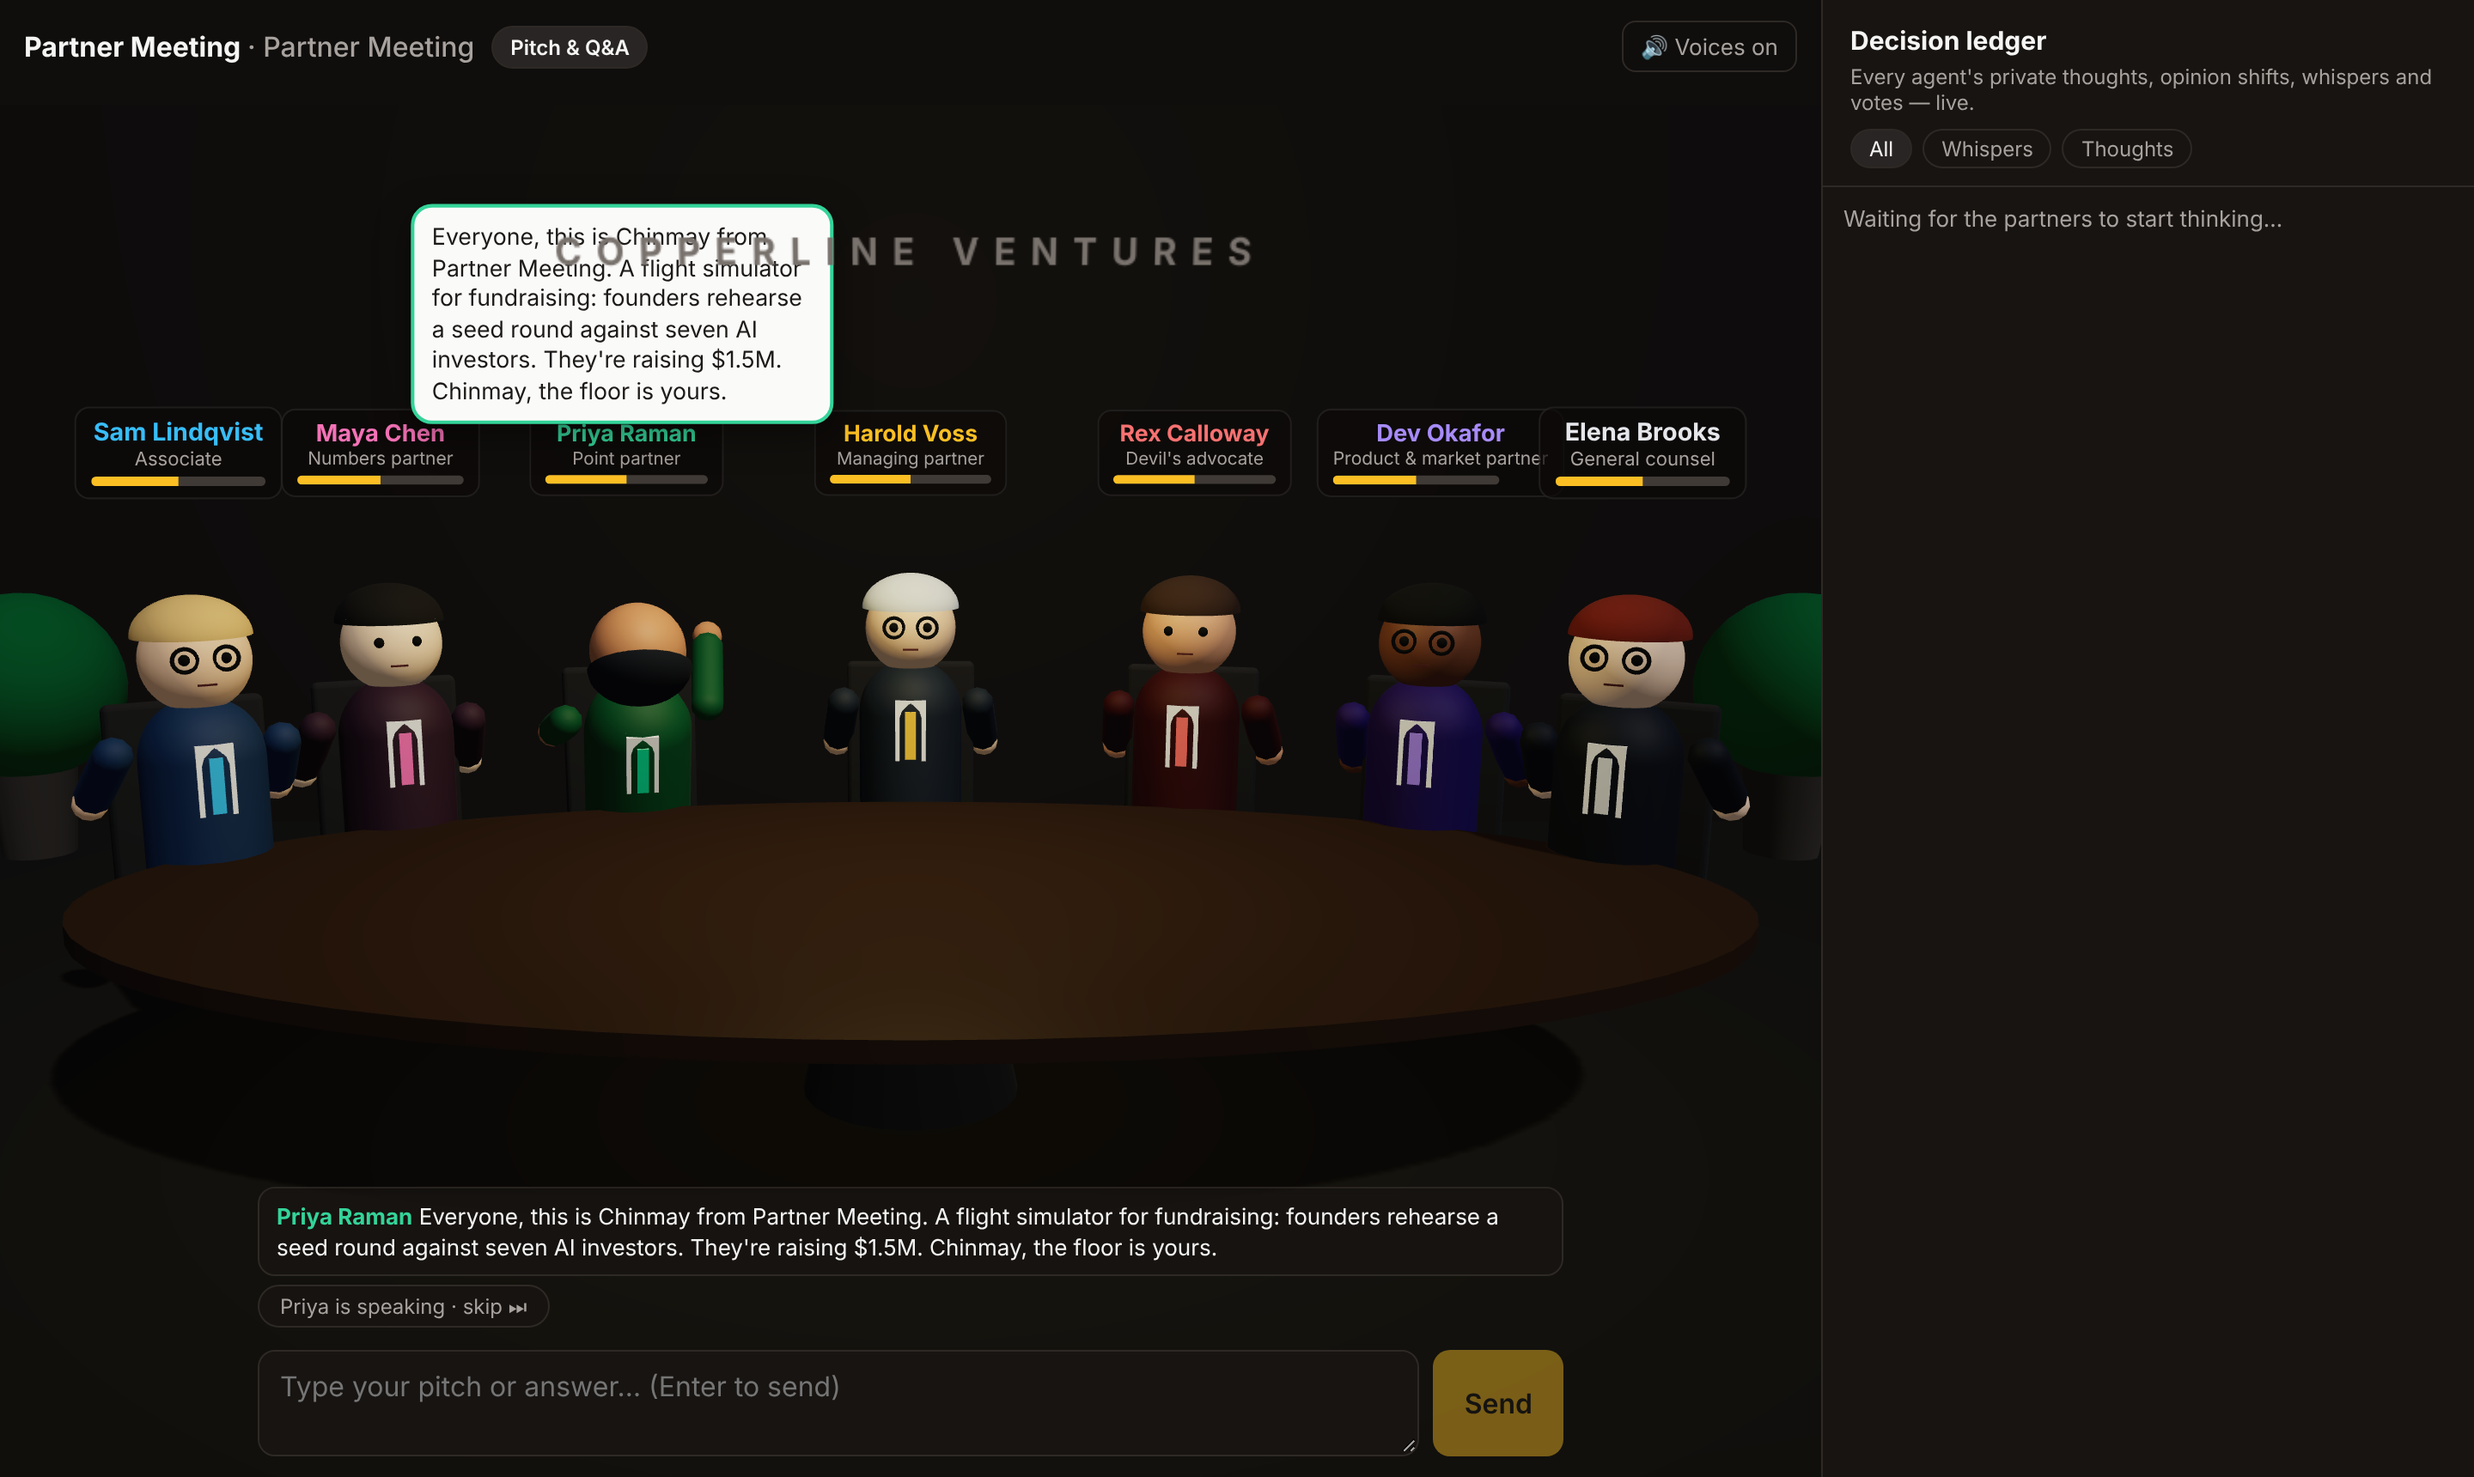
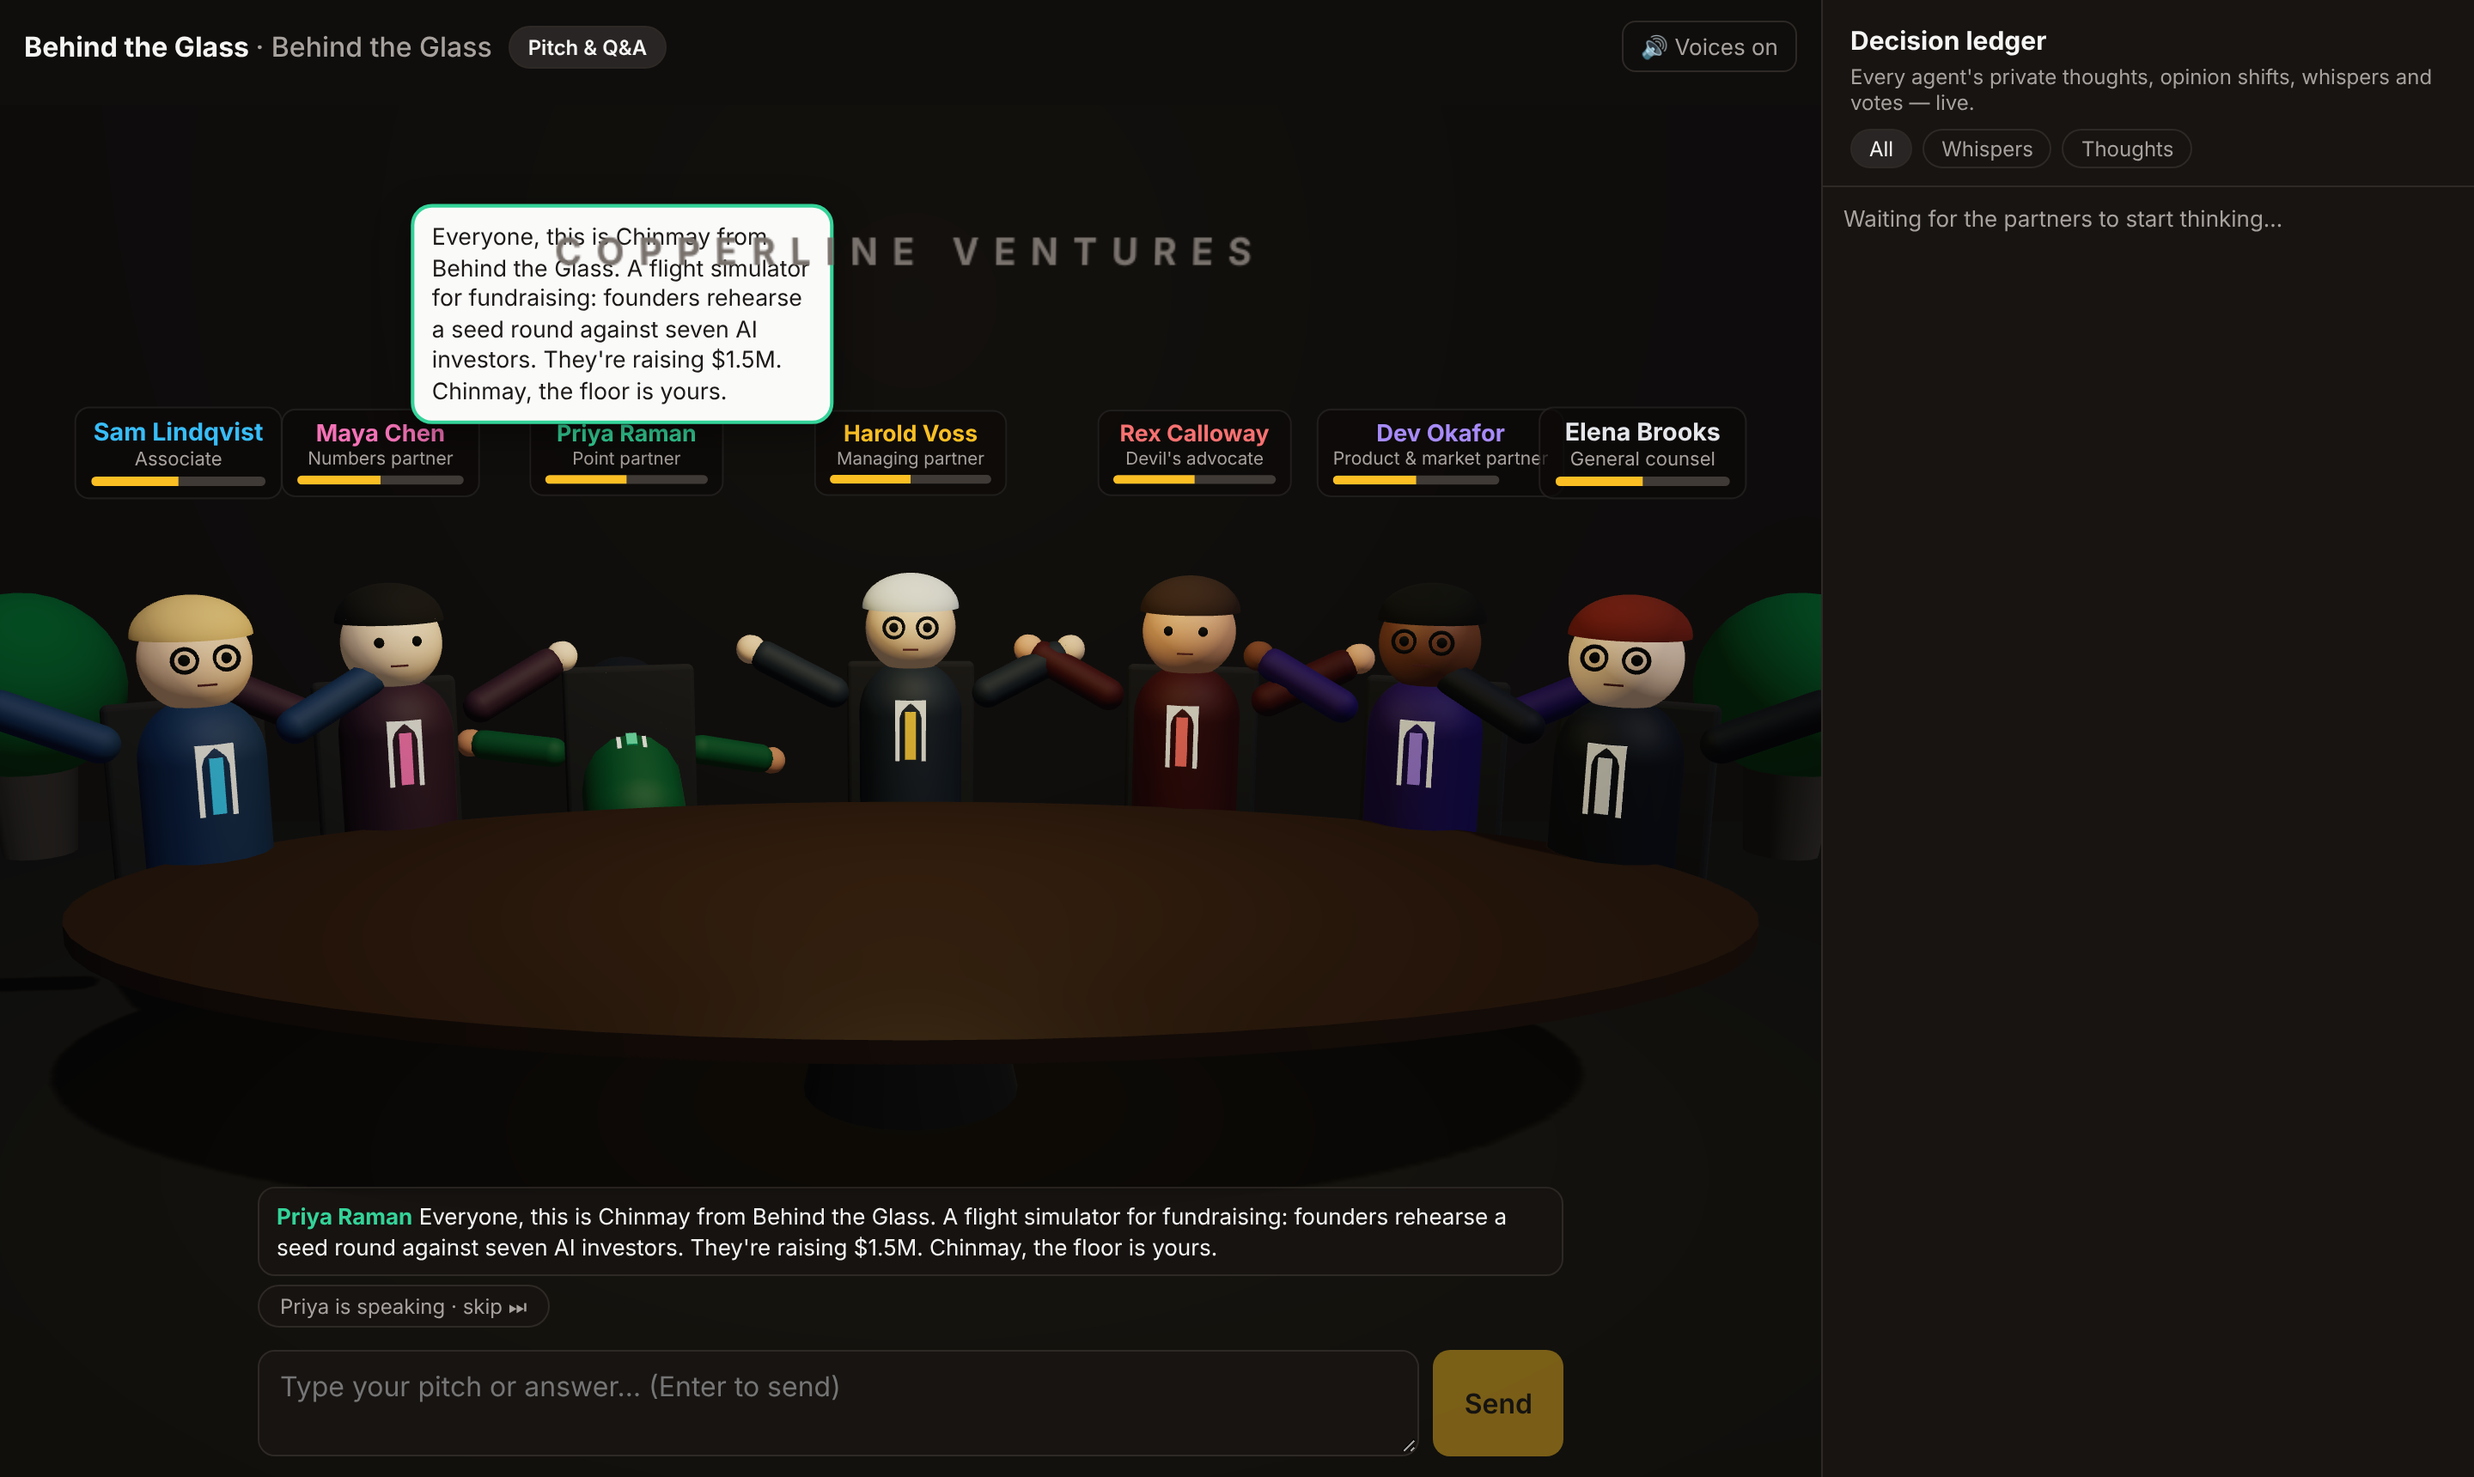
Rename the project to Behind the Glass
Product name in the app, page title, README, docs and banner; package and
Bruin pipeline/DuckDB file names; refreshed README screenshots.

Claude-Session: https://claude.ai/code/session_016sKu27FvAxLNtEmJKz9vQ9

diff --git a/app/server/engine.ts b/app/server/engine.ts
@@ -38,7 +38,7 @@ const AgentTurn = z.object({
   weak_topic: z.enum([...WEAK_TOPICS, "none"]).describe("A founder weak spot you just noticed, or none."),
   weak_quote: z.string().describe("The founder's exact words that showed the weak spot, or empty."),
   fact_check: z.string().describe("Associate only: a factual claim to verify on the web, or empty."),
-  call_partner_meeting: z.boolean().describe("Managing partner only: true when you have heard enough."),
+  call_behind_the_glass: z.boolean().describe("Managing partner only: true when you have heard enough."),
 });
 type AgentTurn = z.infer<typeof AgentTurn>;
 
@@ -290,7 +290,7 @@ ${facts ? `\n${facts}` : ""}`;
 - Only speak if you have a sharp question or reaction; otherwise leave "say" empty.
 - Ask ONE question at a time. Do not repeat a question someone already asked.
 - Associate: put one checkable factual claim in fact_check if the founder made one worth checking.
-- Managing partner: set call_partner_meeting true once the key questions are answered (usually after 3-5 founder answers). Everyone else: false.`,
+- Managing partner: set call_behind_the_glass true once the key questions are answered (usually after 3-5 founder answers). Everyone else: false.`,
     );
 
     // Associate's live web fact-check.
@@ -308,7 +308,7 @@ ${facts ? `\n${facts}` : ""}`;
 
     for (const [a, t] of this.pickSpeakers(turns, PITCH_SPEAKERS)) this.speak(a, t.say);
 
-    const mpWantsMeeting = turns.managing?.call_partner_meeting && this.founderTurns >= 3;
+    const mpWantsMeeting = turns.managing?.call_behind_the_glass && this.founderTurns >= 3;
     if (mpWantsMeeting || this.founderTurns >= 6) {
       this.log("managing", "decision", "Calls the partner meeting: founder steps out.");
       this.speak("managing", "Thank you. Give us a few minutes, we'll call you back in.");

diff --git a/app/src/App.tsx b/app/src/App.tsx
@@ -65,7 +65,7 @@ export default function App() {
       const e = JSON.parse(m.data) as ServerEvent;
       switch (e.type) {
         case "phase":
-          // Leftover partner-meeting chatter is dropped once the founder is called back in.
+          // Leftover behind-the-glass chatter is dropped once the founder is called back in.
           if (e.phase === "termsheet") voice.clearPending();
           setPhase(e.phase);
           setPhaseNote(e.note ?? "");
@@ -124,7 +124,7 @@ export default function App() {
         <Room agents={agents} phase={phase} speaking={speaking} terms={terms} />
         <div className="hud-top">
           <div className="brand">
-            Partner Meeting <span>· {info.company}</span>
+            Behind the Glass <span>· {info.company}</span>
           </div>
           <div className={`phase phase-${phase}`}>{phaseLabel(phase)}</div>
           {phaseNote && <div className="phase-note">{phaseNote}</div>}
@@ -177,7 +177,7 @@ function Setup({ onStart, error }: { onStart: (i: StartupInfo) => void; error: s
   return (
     <div className="setup">
       <div className="setup-card">
-        <h1>Partner Meeting</h1>
+        <h1>Behind the Glass</h1>
         <p className="lede">
           Pitch seven AI investors at their Monday partner meeting. They question you, fact-check you, debate you behind the glass, and — if
           they bite — negotiate a real term sheet. Then you see what your deal would cost you.

diff --git a/app/tests/fake-llm.ts b/app/tests/fake-llm.ts
@@ -40,7 +40,7 @@ export function fakeLlm(opts: { delayMs?: number; huddleDelayMs?: number } = {})
           weak_topic: name.startsWith("Maya") ? "unit_economics" : "none",
           weak_quote: name.startsWith("Maya") ? "(test) quote" : "",
           fact_check: name.startsWith("Sam") && turns === 1 ? "(test) no competitors" : "",
-          call_partner_meeting: name.startsWith("Harold") && turns >= 3,
+          call_behind_the_glass: name.startsWith("Harold") && turns >= 3,
         };
       else if (keys.includes("argument"))
         out = { argument: `(test) ${name} argues.`, vote: name.startsWith("Rex") ? "pass" : "invest", stance: 30, terms_view: "(test) 1x pref" };

diff --git a/app/server/bruin.ts b/app/server/bruin.ts
@@ -11,7 +11,7 @@ const here = path.dirname(fileURLToPath(import.meta.url));
 // PM_BRUIN_DIR lets tests point at a scratch copy so they never touch real session data.
 export const BRUIN_DIR = process.env.PM_BRUIN_DIR || path.resolve(here, "../../bruin");
 const SESSIONS_DIR = path.join(BRUIN_DIR, "data/sessions");
-const DB_PATH = path.join(BRUIN_DIR, "partner_meeting.duckdb");
+const DB_PATH = path.join(BRUIN_DIR, "behind_the_glass.duckdb");
 
 export function writeSession(id: string, data: unknown) {
   fs.mkdirSync(SESSIONS_DIR, { recursive: true });

diff --git a/app/server/index.ts b/app/server/index.ts
@@ -77,5 +77,5 @@ export function createApp(llm: Llm = realLlm) {
 
 if (process.argv[1] && path.resolve(process.argv[1]) === fileURLToPath(import.meta.url)) {
   const port = Number(process.env.PORT) || 8787;
-  createApp().listen(port, () => console.log(`Partner Meeting server on http://localhost:${port}`));
+  createApp().listen(port, () => console.log(`Behind the Glass server on http://localhost:${port}`));
 }

diff --git a/app/index.html b/app/index.html
@@ -3,7 +3,7 @@
   <head>
     <meta charset="UTF-8" />
     <meta name="viewport" content="width=device-width, initial-scale=1.0" />
-    <title>Partner Meeting</title>
+    <title>Behind the Glass</title>
     <link rel="preconnect" href="https://fonts.googleapis.com" />
     <link href="https://fonts.googleapis.com/css2?family=Inter:wght@400;500;600;700&display=swap" rel="stylesheet" />
   </head>

diff --git a/README.md b/README.md
@@ -1,5 +1,5 @@
 <p align="center">
-  <img src="docs/assets/banner.svg" alt="Partner Meeting: pitch seven AI investors, watch them decide, negotiate the term sheet" width="100%" />
+  <img src="docs/assets/banner.svg" alt="Behind the Glass: pitch seven AI investors, watch them decide, negotiate the term sheet" width="100%" />
 </p>
 
 <p align="center">
@@ -52,7 +52,7 @@ Each investor is its own Claude agent with a **private goal**. Every turn, each 
 | 🔵 | Sam Lindqvist | Associate | Fact-checks your claims on the web, whispers findings |
 | ⚪ | Elena Brooks | General counsel | Protects the firm in the fine print; joins for the term sheet |
 
-The cast mirrors real partner meetings: a sponsoring partner, the full partnership, an associate who did the diligence and counsel ([First Round Review](https://review.firstround.com/heres-what-you-can-really-expect-when-pitching-your-seed-stage-startup-at-a-vc-partner-meeting/)).
+The cast mirrors real partner meetings: a sponsoring partner, the full partnership, an associate who did the diligence and counsel ([First Round Review](https://review.firstround.com/heres-what-you-can-really-expect-when-pitching-your-seed-stage-startup-at-a-vc-behind-the-glass/)).
 
 ## How it works
 

diff --git a/docs/RESEARCH.md b/docs/RESEARCH.md
@@ -1,4 +1,4 @@
-# Research behind Partner Meeting
+# Research behind Behind the Glass
 
 ## The problem
 - Fundraising is a numbers game founders can't rehearse: Techstars says most founders need 100–200 conversations to close a pre-seed or seed round, and Carta saw 11 checks written from ~4,500 pitch decks (0.2%). Every bad pitch burns a real investor.
@@ -27,7 +27,7 @@ Crewbase Collective runs founder-heavy events (pitch competitions, co-founder ma
 - https://www.svb.com/startup-insights/raising-capital/read-startup-term-sheet/
 - https://www3.carta.com/blog/watch-out-for-these-terms
 - https://www.contrary.com/blog/term-sheet-red-flags
-- https://review.firstround.com/heres-what-you-can-really-expect-when-pitching-your-seed-stage-startup-at-a-vc-partner-meeting/
+- https://review.firstround.com/heres-what-you-can-really-expect-when-pitching-your-seed-stage-startup-at-a-vc-behind-the-glass/
 - https://www.saastr.com/what-actually-happens-in-a-vc-pitch-meeting
 - https://sutton.substack.com/p/take-a-step-inside-a-monday-partners
 - https://luma.com/finch-jd7i

diff --git a/AGENTS.md b/AGENTS.md
@@ -1,4 +1,4 @@
-# Agent entry point — Partner Meeting
+# Agent entry point — Behind the Glass
 
 Solo hackathon build (Finch "Multiplayer AI" hackathon, Track 3: Grow with Agents).
 Read this file, then `docs/ARCHITECTURE.md` (how the code works) and `docs/PLAN.md` (status).

diff --git a/docs/PLAN.md b/docs/PLAN.md
@@ -1,4 +1,4 @@
-# Plan — Partner Meeting
+# Plan — Behind the Glass
 
 **Event:** Finch Multiplayer AI Hackathon (Thanksgiving Special), Nov 23 2026, AWS Builder Loft SF (participating remotely).
 **Track:** 3 — Grow with Agents. **Deadline:** submit by 6:00 PM PT.

diff --git a/docs/ARCHITECTURE.md b/docs/ARCHITECTURE.md
@@ -1,6 +1,6 @@
 # Architecture and handoff
 
-Start here to change or extend Partner Meeting.
+Start here to change or extend Behind the Glass.
 
 ## Layout
 
